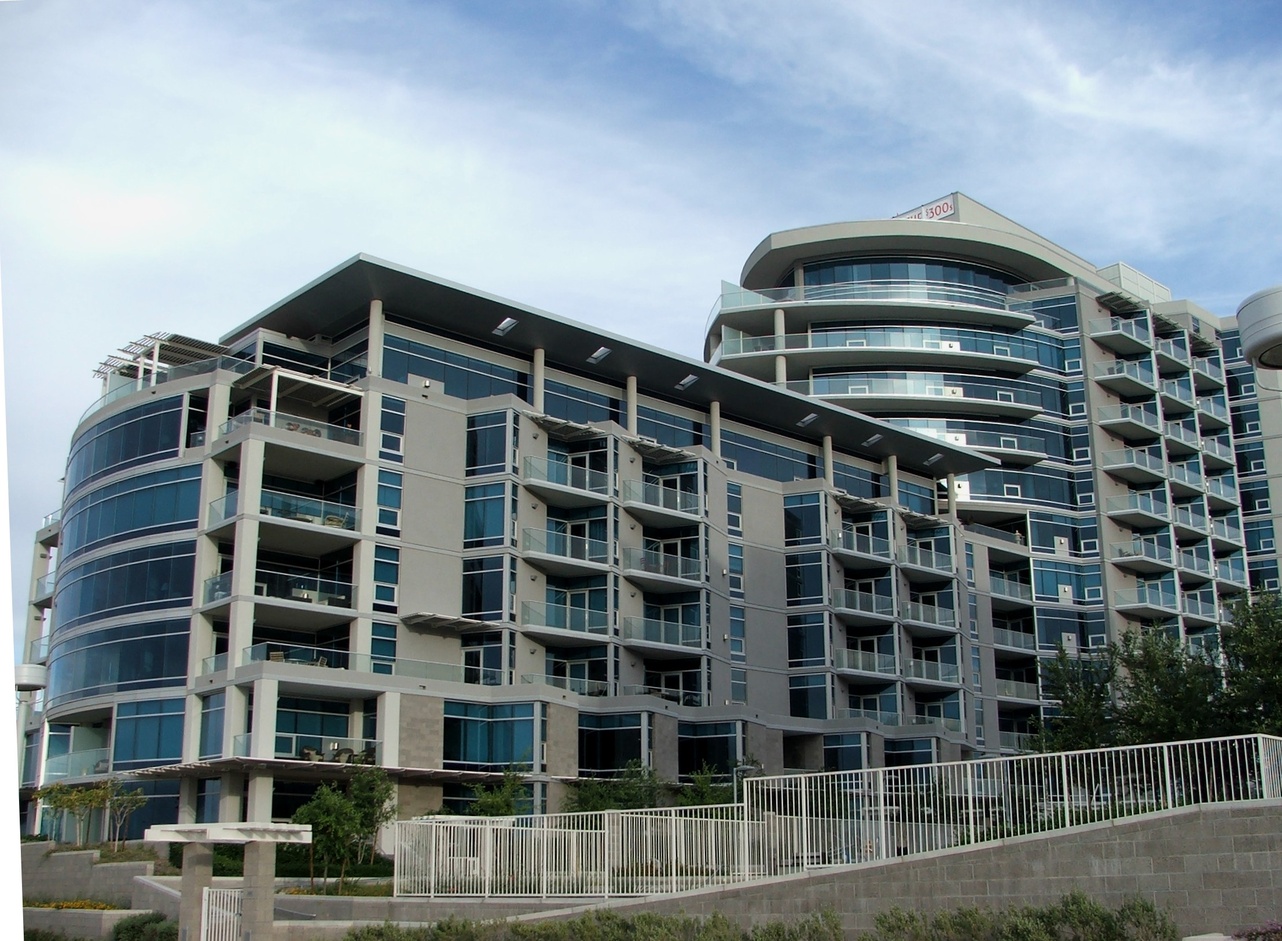
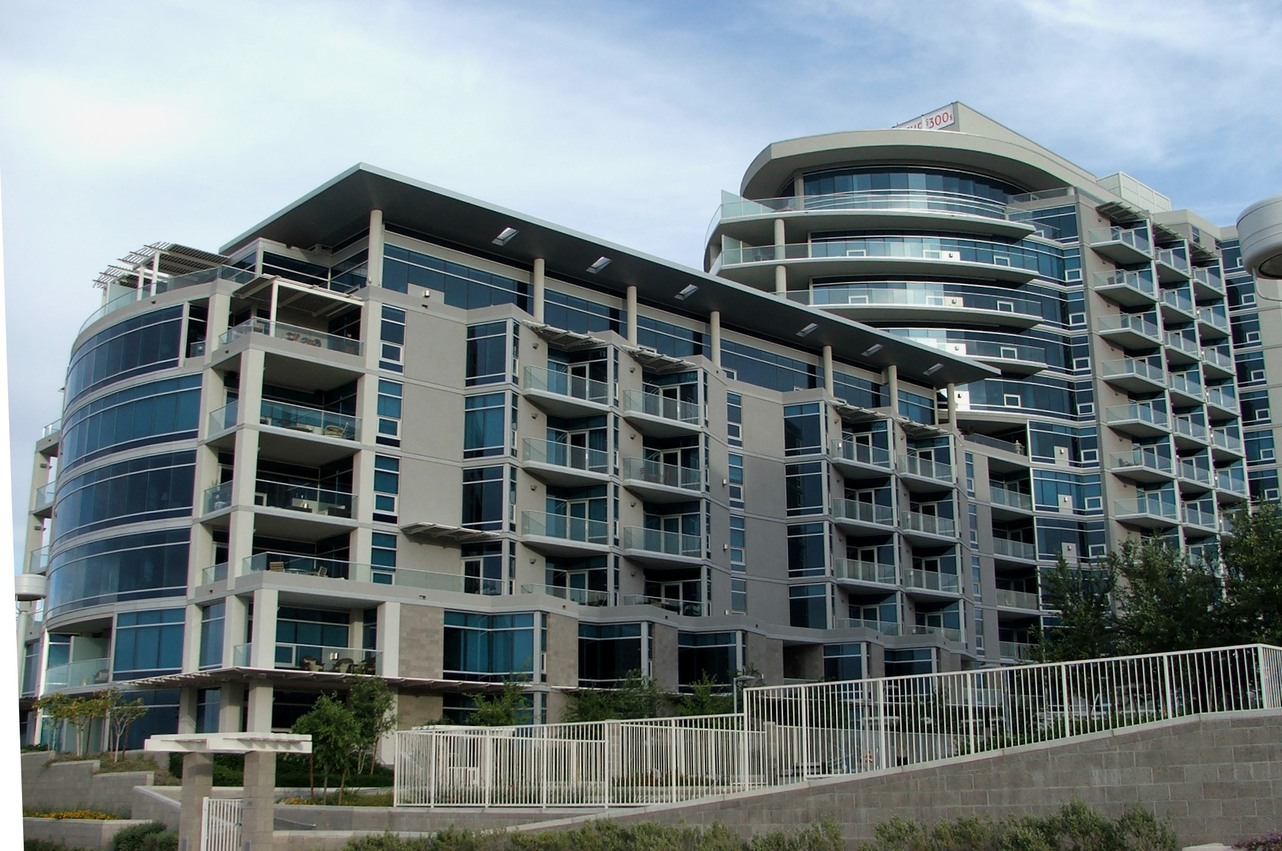
changed carousel photos

diff --git a/_posts/2012-02-05-realestate.md b/_posts/2012-02-05-realestate.md
@@ -12,10 +12,10 @@ category: SERVICES
 						<img src="/assets/images/carousel3.png">
 					</div>
 					<div class="item">
-						<img src="/assets/images/re_carousel1.jpg" height="350">
+						<img src="/assets/images/re_carousel1.jpg">
 					</div>
 					<div class="item">
-						<img src="/assets/images/re_carousel3.jpg" height="350">
+						<img src="/assets/images/re_carousel2.jpg">
 					</div>
 				</div>
 				<!-- Carousel nav -->
